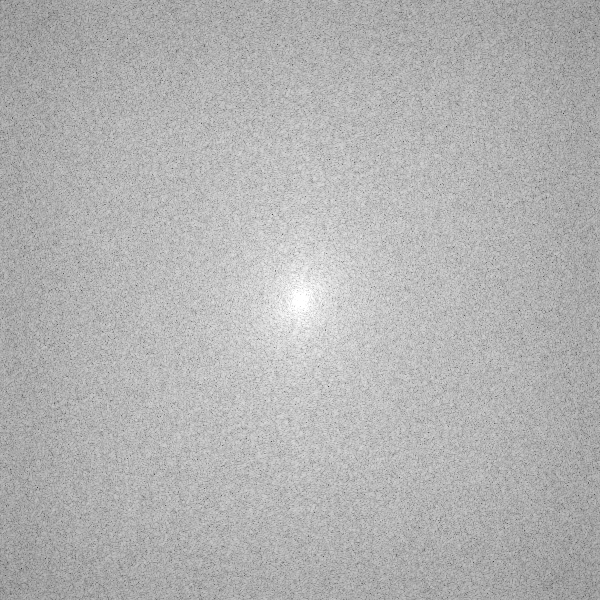
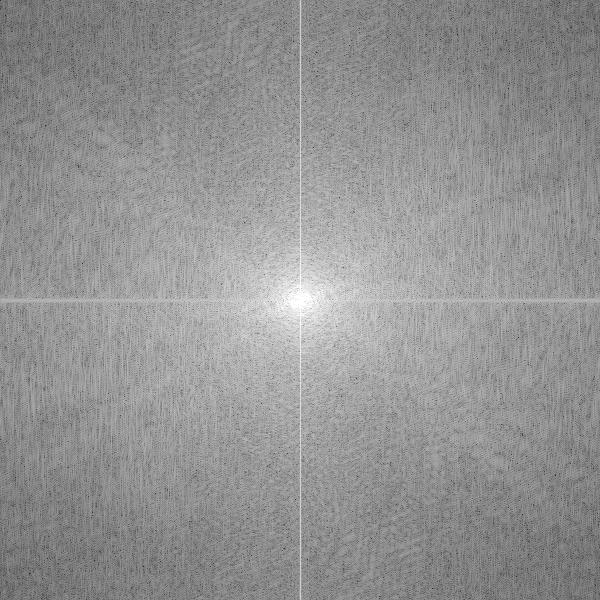
Adding rest of mixing

diff --git a/templates/index.html b/templates/index.html
@@ -77,8 +77,8 @@
         <option value="phase">Phase</option>
         <option value="real">real part</option>
         <option value="imag">Imaginary part</option>
-        <option value="uniphase2">Uniform phase</option>
-        <option value="unimag2">Uniform mag</option>
+        <option value="uniphase">Uniform phase</option>
+        <option value="unimag">Uniform mag</option>
       </select>
       <div class="s2">
       <label for="ratio2" id="noiselabel"> Component two Mixing ratio:</label>

diff --git a/app.py b/app.py
@@ -34,6 +34,54 @@ def mix_real_imag(real, imag, ratio1, ratio2):
     return send_file(filename, mimetype='image/png')
 
 
+def mix_uniMag_phase(mag, phase, ratio1, ratio2,c1,c2):
+    uni_mag  = mag/mag
+    uni_Magnitude = np.add(uni_mag*((ratio1)), c2*(1-(ratio1)))
+    phase = np.add(modified_comp2*(ratio2),c1*(1-(ratio2)))
+    OutputImage = np.multiply(uni_Magnitude, np.exp(1j * phase))
+    FinalImage = np.real(np.fft.ifft2((OutputImage)))
+    FinalImage = (FinalImage - np.min(FinalImage)) / \
+        (np.max(FinalImage) - np.min(FinalImage)) * 255
+    FinalImage = FinalImage.astype(np.uint8)
+    filename = Image.generate_image("hi.png", FinalImage)
+    return send_file(filename, mimetype='image/png')
+
+def mix_mag_uniPhase(mag, phase, ratio1, ratio2, c1, c2):
+    uni_phase = np.multiply(phase, 0)
+    New_magnitude = np.add(mag*(ratio1/100), c2*(1-ratio_1/100))
+    New_phase = np.add(uni_phase*(ratio2/100), c1*(1-ratio2/100))
+    OutputImage = np.multiply(New_magnitude, np.exp(1j * New_phase))
+    FinalImage = np.real(np.fft.ifft2((OutputImage)))
+    FinalImage = (FinalImage - np.min(FinalImage)) / \
+        (np.max(FinalImage) - np.min(FinalImage)) * 255
+    FinalImage = FinalImage.astype(np.uint8)
+    filename = Image.generate_image("hi.png", FinalImage)
+    return send_file(filename, mimetype='image/png')
+
+def mix_unimag_uniphase(mag, phase, ratio1, ratio2, c1, c2):
+     uni_phase = np.multiply(phase, 0)
+     uni_mag  = mag/mag
+     uni_Magnitude = np.add(uni_mag*((ratio1)), c2*(1-(ratio1)))
+     New_phase = np.add(uni_phase*(ratio2/100), c1*(1-ratio2/100))
+     OutputImage = np.multiply(uni_Magnitude, np.exp(1j * New_phase))
+     FinalImage = np.real(np.fft.ifft2((OutputImage)))
+     FinalImage = (FinalImage - np.min(FinalImage)) / \
+        (np.max(FinalImage) - np.min(FinalImage)) * 255
+     FinalImage = FinalImage.astype(np.uint8)
+     filename = Image.generate_image("hi.png", FinalImage)
+     return send_file(filename, mimetype='image/png') 
+
+     
+
+
+
+    
+
+    
+
+
+
+
 
 
 class processimage:
@@ -75,7 +123,7 @@ class processimage:
         shifted_real = np.real(fshift)
         shifted_imag = np.imag(fshift)
 
-        self.components = [scaled_mag, phase, realpart, imgpart]
+        self.components = [scaled_mag, phase, realpart, imgpart, phase, scaled_mag]
         self.phase = phase
         self.magnitude = magnitude_spectrum
         self.scaled_phase = phase_scaled
@@ -233,32 +281,30 @@ def mix_signals():
     global modified_comp1, modified_comp2
     if img1 == 0:
         modified_comp1 = Image.components[index1]
-        if (index1==0): #get the phase
+        if (index1==0 or index1 == 5): #get the phase
             compliment=Image.components[1]
-        elif (index1==1): #get the mag
+        elif (index1==1 or index1 == 4): #get the mag
             compliment=Image.components[0]   
-
-                
 
     elif img1 == 1:
         modified_comp1 = Image2.components[index1]
-        if (index1==0): #get the phase
+        if (index1==0 or index1 == 5): #get the phase
             compliment=Image2.components[1]
-        elif (index1==1): #get the mag
+        elif (index1==1 or index1 == 4): #get the mag
             compliment=Image2.components[0]
     
     
     if img2 == 0:
         modified_comp2 = Image.components[index2]
-        if (index2==0): #get the phase
+        if (index2==0 or index2 == 5): #get the phase
             compliment2=Image.components[1]
-        elif (index2==1): #get the mag
+        elif (index2==1 or index2 == 4): #get the mag
             compliment2=Image.components[0]
     elif img2 == 1:
         modified_comp2 = Image2.components[index2]
-        if (index2==0): #get the phase
+        if (index2==0 or index2 == 5): #get the phase
             compliment2=Image2.components[1]
-        elif (index2==1): #get the mag
+        elif (index2==1 or index2 == 4): #get the mag
             compliment2=Image2.components[0]
         
     
@@ -283,6 +329,29 @@ def final_im():
     
     elif(type1 == 'imag' and type2 == 'real'):
         return mix_real_imag(modified_comp2, modified_comp1,ratio_1/100,ratio_2/100)
+    
+    elif(type1 == 'unimag' and type2 == 'phase'):
+        return mix_uniMag_phase(modified_comp1, modified_comp2, ratio_1, ratio_2, compliment, compliment2)
+    
+    elif(type1 == 'phase' and type2 == 'unimag'):
+        return mix_uniMag_phase(modified_comp2, modified_comp1, ratio_1, ratio_2, compliment2, compliment)
+    
+    elif(type1 == 'magnitude' and type2 == 'uniphase'):
+        return mix_mag_uniPhase(modified_comp1, modified_comp2, ratio_1, ratio_2, compliment, compliment2)
+    
+    elif(type1 == 'uniphase' and type2 == 'magnitude'):
+        return mix_mag_uniPhase(modified_comp2, modified_comp1, ratio_1, ratio_2, compliment2, compliment)
+    
+    elif(type1 == 'unimag' and type2 == 'uniphase'):
+        return mix_unimag_uniphase(modified_comp1, modified_comp2, ratio_1, ratio_2, compliment, compliment2)
+    
+    elif(type1 == 'uniphase' and type2 =='unimag'):
+        return mix_unimag_uniphase(modified_comp2, modified_comp1, ratio_1, ratio_2, compliment2, compliment)
+
+
+    
+    
+
     
 
         
